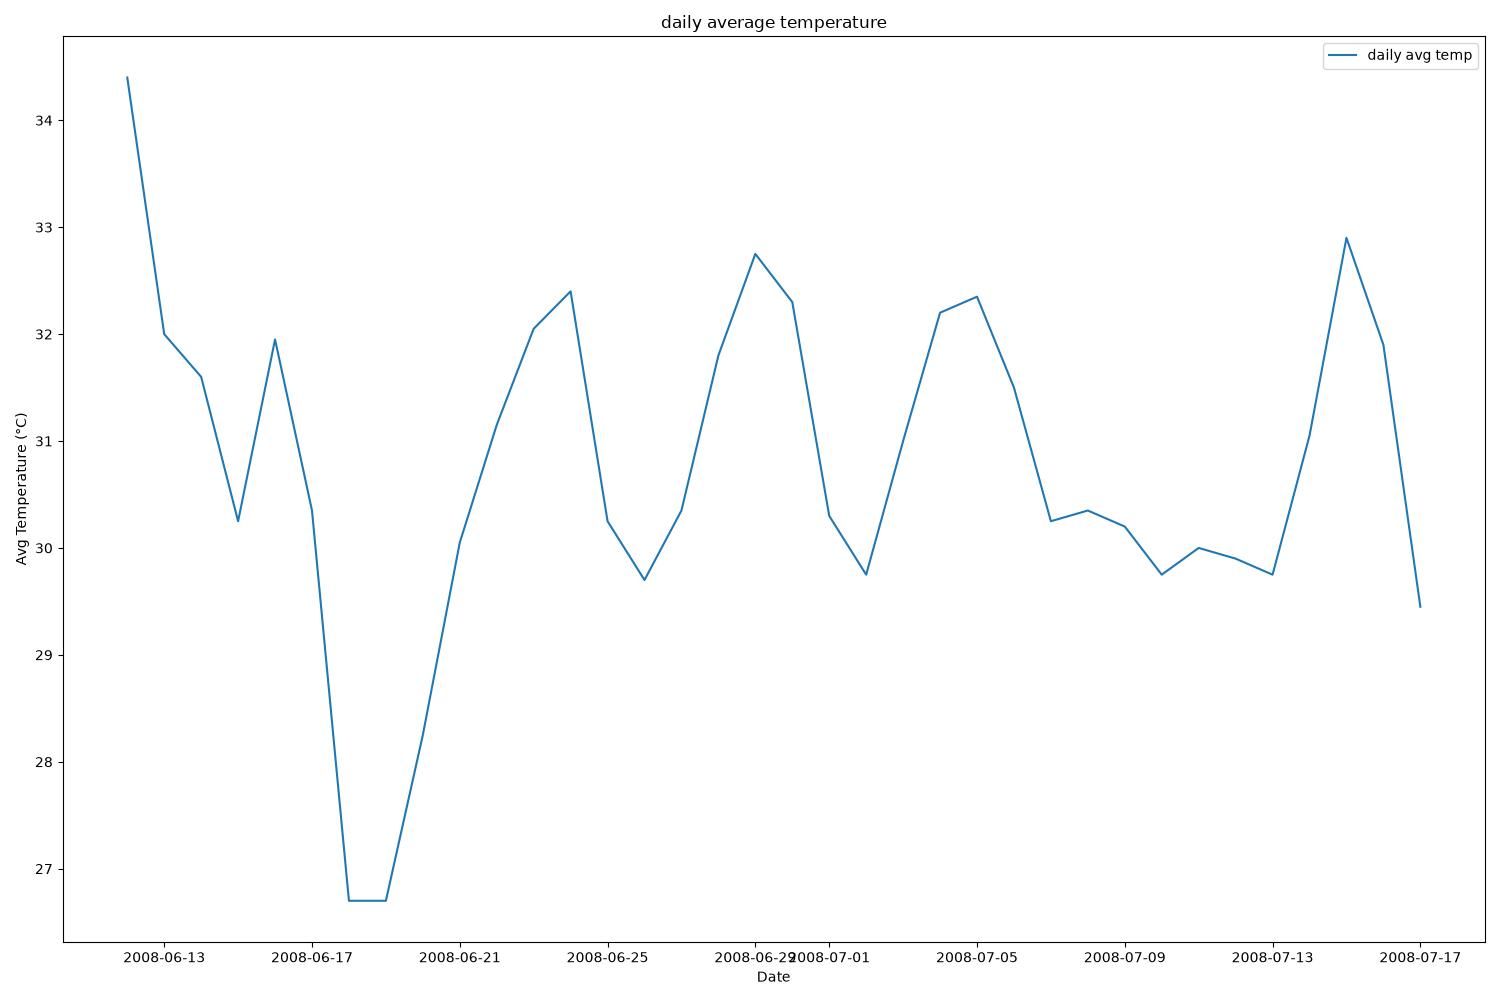
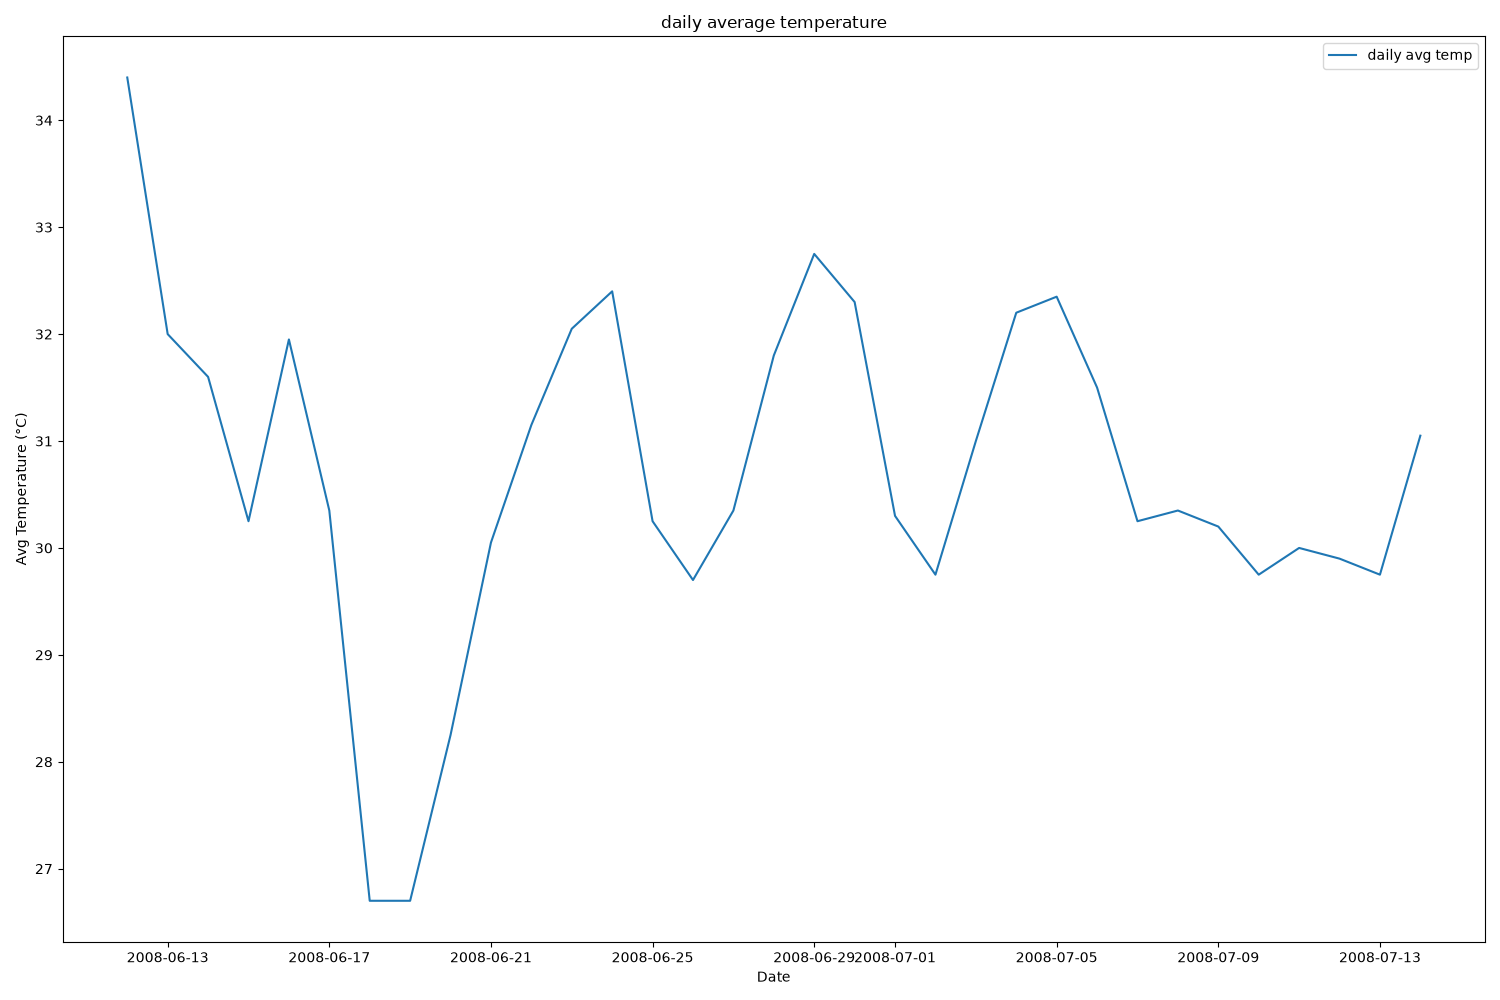
saved dataframe to csv

diff --git a/src/weather_project/main.py b/src/weather_project/main.py
@@ -16,4 +16,6 @@ hot_and_cold_graph(weather_df)
 
 daily_avg_graph(weather_df)
 
+weather_df.to_csv("data/weather_dataframe.csv")
+
 
